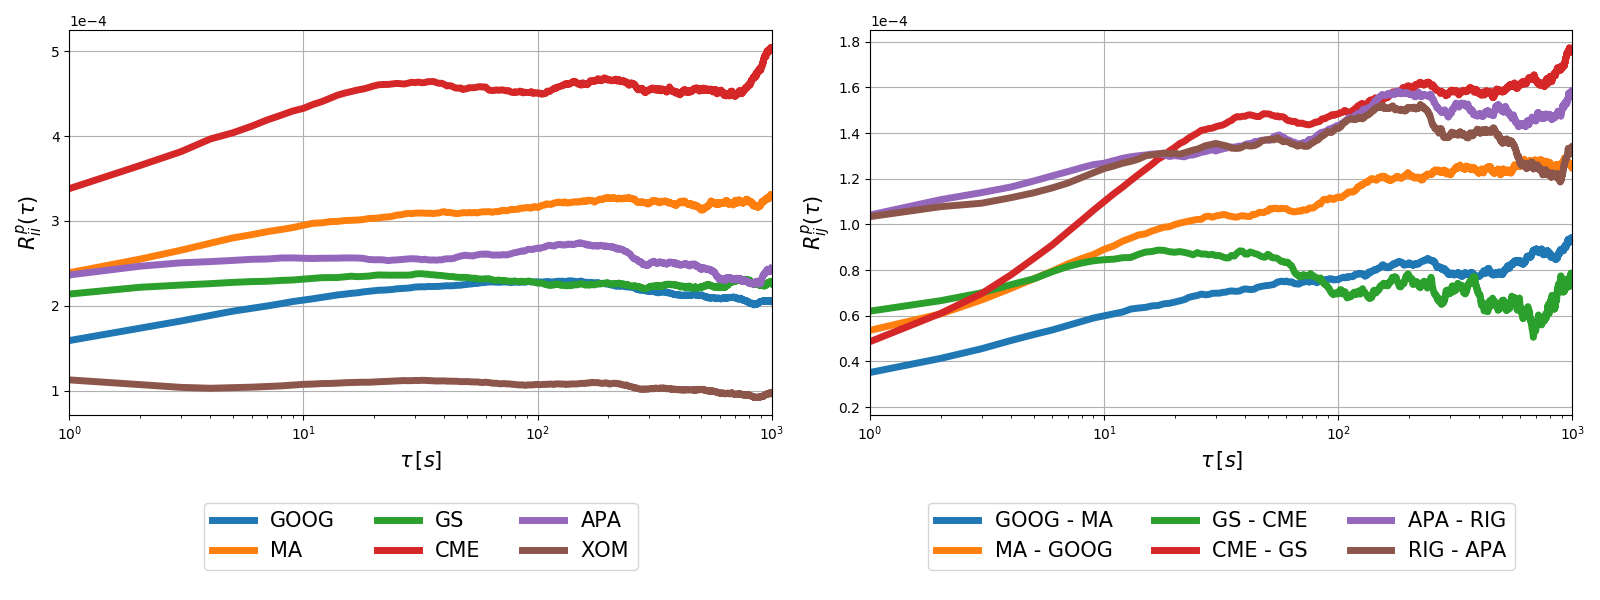
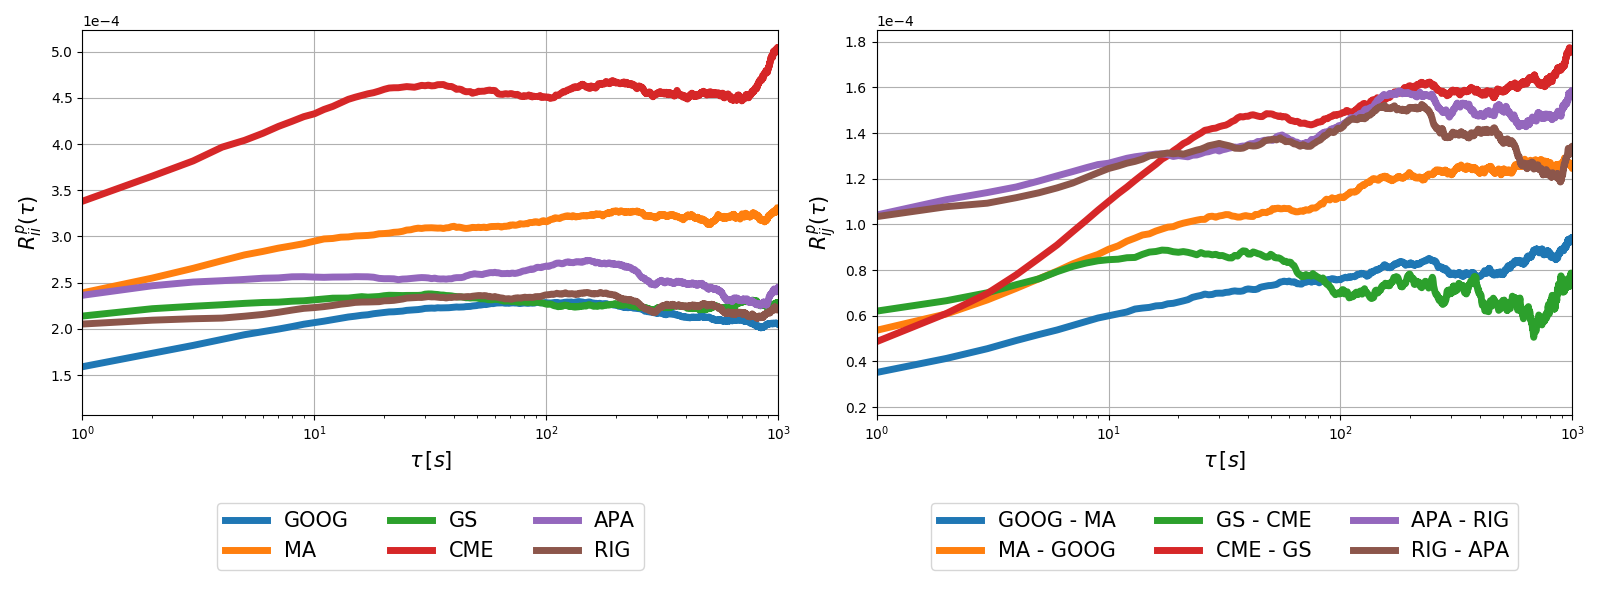
Update paper figures

diff --git a/paper/algorithms/03_response_implementation.py b/paper/algorithms/03_response_implementation.py
@@ -299,7 +299,7 @@ def main():
 
     ticker_i = 'APA'
     ticker_j = 'RIG'
-    tickers = ['GOOG', 'MA', 'GS', 'CME', 'APA', 'XOM']
+    tickers = ['GOOG', 'MA', 'GS', 'CME', 'APA', 'RIG']
     sectors = [['GOOG', 'MA'], ['MA', 'GOOG'],
                ['GS', 'CME'], ['CME', 'GS'],
                ['APA', 'RIG'], ['RIG', 'APA']]
